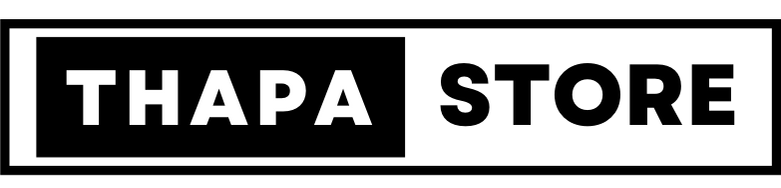
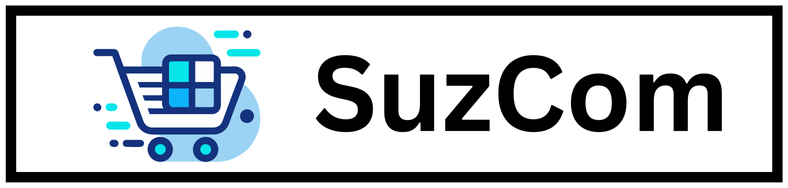
contact form added

diff --git a/ecomwebjs/contact.html b/ecomwebjs/contact.html
@@ -56,7 +56,103 @@
     </header>
     <!-- ========== End Navbar ========== -->
 
+    <!-- ========== Start About Section ========== -->
+    <section class="section-contact">
+        <div class="container">
+          <h2 class="section-common--heading">contact us</h2>
+          <p class="section-common--subheading">
+            Get in touch with us. We are always here to help you.
+          </p>
+        </div>
+  
+        <div class="container grid grid-two--cols">
+          <div class="contact-content">
+            <form action="#">
+              <div class="grid grid-two-cols mb-3">
+                <div>
+                  <label for="username">full name</label>
+                  <input
+                    type="text"
+                    name="username"
+                    id="username"
+                    required
+                    autocomplete="off"
+                    placeholder="enter full name"
+                  />
+                </div>
+  
+                <div>
+                  <label for="email">email address</label>
+                  <input
+                    type="email"
+                    name="email"
+                    id="email"
+                    required
+                    autocomplete="off"
+                    placeholder="abc@thapa.com"
+                  />
+                </div>
+              </div>
+  
+              <div class="mb-3">
+                <label for="subject">subject</label>
+                <input
+                  type="text"
+                  name="subject"
+                  id="subject"
+                  required
+                  autocomplete="off"
+                  placeholder="title of your message"
+                />
+              </div>
+  
+              <div class="mb-3">
+                <label for="message">message</label>
+                <textarea
+                  name="message"
+                  id="message "
+                  cols="30"
+                  rows="10"
+                  placeholder="we are always here to help you."
+                ></textarea>
+              </div>
+  
+              <div class="mt-3">
+                <button type="submit" class="btn contact-btn">
+                  send message
+                </button>
+              </div>
+            </form>
+          </div>
+          <div class="contact-map">
+            <iframe
+              src="https://www.google.com/maps/embed?pb=!1m18!1m12!1m3!1d3782.2613173278896!2d73.91411937501422!3d18.562253982539413!2m3!1f0!2f0!3f0!3m2!1i1024!2i768!4f13.1!3m3!1m2!1s0x3bc2c147b8b3a3bf%3A0x6f7fdcc8e4d6c77e!2sPhoenix%20Marketcity%20Pune!5e0!3m2!1sen!2sin!4v1696124215167!5m2!1sen!2sin"
+              width="100%"
+              height="auto"
+              style="border: 0"
+              allowfullscreen=""
+              loading="lazy"
+              referrerpolicy="no-referrer-when-downgrade"
+            ></iframe>
+          </div>
+        </div>
+      </section>
+  
+
+    <!--* ========== Start Footer Section ========== -->
+
+    <footer class="section-footer">
+        <script src="footer.js"></script>
+    </footer>
+    <!-- Include the footer JavaScript file -->
+
+    <script type="module" src="/main.js"></script>
     
+    <!-- js script  -->
+    <script src="https://unpkg.com/aos@next/dist/aos.js"></script>
+    <script>
+      AOS.init();
+    </script>
 </body>
 
 </html>

diff --git a/ecomwebjs/about.html b/ecomwebjs/about.html
@@ -74,7 +74,7 @@
                         Your Destination for Cutting-Edge Gadgets!
                     </h1>
                     <p class="hero-para">
-                        Welcome to WrathRex eComStore, your ultimate destination for
+                        Welcome to SuzCom eComStore, your ultimate destination for
                         cutting-edge gadgets! Explore the latest in tech innovation and
                         style with us. Shop now and discover a world of possibilities!
                     </p>
@@ -195,9 +195,9 @@
     <!--? ========== Start Why Choose Us Section ========== -->
     <section class="section-why--choose">
         <div class="container">
-            <h2 class="section-common--heading">Why Choose Thapa Store</h2>
+            <h2 class="section-common--heading">Why Choose SuzCom</h2>
             <p class="section-common--subheading">
-                Choose WrathRex EduHub for a holistic, enriching learning experience that
+                Choose SuzCom EduHub for a holistic, enriching learning experience that
                 empowers you to achieve your goals.
             </p>
         </div>
@@ -254,7 +254,7 @@
                     <p class="common-text--highlight">5</p>
                     <h3 class="section-common--title">Convenient Shopping</h3>
                     <p>
-                        With WrathRex Store, shopping for gadgets is easy and convenient. Our
+                        With SuzCom Store, shopping for gadgets is easy and convenient. Our
                         user-friendly website and secure payment options ensure a seamless
                         experience from browsing to checkout, all from the comfort of your
                         home.
@@ -265,7 +265,7 @@
                     <p class="common-text--highlight">6</p>
                     <h3 class="section-common--title">Excellent Service</h3>
                     <p>
-                        WrathRex Store is committed to providing excellent service to our
+                        SuzCom Store is committed to providing excellent service to our
                         customers. From prompt assistance with inquiries to efficient
                         handling of orders and deliveries, we prioritize your satisfaction
                         every step of the way.
@@ -283,7 +283,7 @@
             <div class="content_1">
                 <img src="./images/logo.png" alt="logo" />
                 <p>
-                    Welcome to WrathRex EcomStore, your ultimate destination for
+                    Welcome to SuzCom EcomStore, your ultimate destination for
                     cutting-edge gadgets!
                 </p>
                 <img src="https://i.postimg.cc/Nj9dgJ98/cards.png" alt="cards" />

diff --git a/ecomwebjs/index.html b/ecomwebjs/index.html
@@ -75,7 +75,7 @@
             Your Destination for Cutting-Edge Gadgets!
           </h1>
           <p class="hero-para">
-            Welcome to WrathRex eComStore, your ultimate destination for
+            Welcome to SuzCom eComStore, your ultimate destination for
             cutting-edge gadgets! Explore the latest in tech innovation and
             style with us. Shop now and discover a world of possibilities!
           </p>
@@ -274,7 +274,7 @@
     <div class="container">
       <h2 class="section-common--heading">Why Choose Thapa Store</h2>
       <p class="section-common--subheading">
-        Choose WrathRex EduHub for a holistic, enriching learning experience that
+        Choose SuzCom EduHub for a holistic, enriching learning experience that
         empowers you to achieve your goals.
       </p>
     </div>
@@ -285,7 +285,7 @@
           <p class="common-text--highlight">1</p>
           <h3 class="section-common--title">Wide Selection</h3>
           <p>
-            WrathRex Store offers a diverse range of gadgets, from smartphones to
+            SuzCom Store offers a diverse range of gadgets, from smartphones to
             smart home devices, ensuring you find what you need to elevate
             your lifestyle and meet your tech requirements.
           </p>
@@ -299,7 +299,7 @@
           <p class="common-text--highlight">2</p>
           <h3 class="section-common--title">Quality Assurance</h3>
           <p>
-            Every gadget at WrathRex Store undergoes rigorous quality checks,
+            Every gadget at SuzCom Store undergoes rigorous quality checks,
             guaranteeing reliability and performance, so you can shop with
             confidence knowing you're getting the best.
           </p>
@@ -347,7 +347,7 @@
           <p class="common-text--highlight">5</p>
           <h3 class="section-common--title">Convenient Shopping</h3>
           <p>
-            With WrathRex Store, shopping for gadgets is easy and convenient. Our
+            With SuzCom Store, shopping for gadgets is easy and convenient. Our
             user-friendly website and secure payment options ensure a seamless
             experience from browsing to checkout, all from the comfort of your
             home.
@@ -362,7 +362,7 @@
           <p class="common-text--highlight">6</p>
           <h3 class="section-common--title">Excellent Service</h3>
           <p>
-            WrathRex Store is committed to providing excellent service to our
+            SuzCom Store is committed to providing excellent service to our
             customers. From prompt assistance with inquiries to efficient
             handling of orders and deliveries, we prioritize your satisfaction
             every step of the way.

diff --git a/ecomwebjs/footer.js b/ecomwebjs/footer.js
@@ -1,0 +1,45 @@
+const footerHTML = `
+ <footer class="section-footer">
+      <div class="footer-container container">
+        <div class="content_1">
+          <img src="./images/logo.png" alt="logo" />
+          <p>
+            Welcome to Soban EcomStore, your ultimate destination for
+            cutting-edge gadgets!
+          </p>
+          <img src="https://i.postimg.cc/Nj9dgJ98/cards.png" alt="cards" />
+        </div>
+        <div class="content_2">
+          <h4>SHOPPING</h4>
+          <a href="#">Computer Store</a>
+          <a href="#">Laptop Store</a>
+          <a href="#">Accessories</a>
+          <a href="#">Sales & Discount</a>
+        </div>
+        <div class="content_3">
+          <h4>Experience</h4>
+          <a href="./contact.html">Contact Us</a>
+          <a href="" target="_blank">Payment Method</a>
+          <a href="" target="_blank">Delivery</a>
+          <a href="" target="_blank">Return and Exchange</a>
+        </div>
+        <div class="content_4">
+          <h4>NEWSLETTER</h4>
+          <p>Be the first to know about new<br />arrivals, sales & promos!</p>
+          <div class="f-mail">
+            <input type="email" placeholder="Your Email" />
+            <i class="bx bx-envelope"></i>
+          </div>
+          <hr />
+        </div>
+      </div>
+      <div class="f-design">
+        <div class="f-design-txt">
+          <p>Design and Code by Soban hanif</p>
+        </div>
+      </div>
+    </footer>`;
+
+
+const footerElem = document.querySelector(".section-footer");
+footerElem.insertAdjacentHTML("afterbegin", footerHTML);
